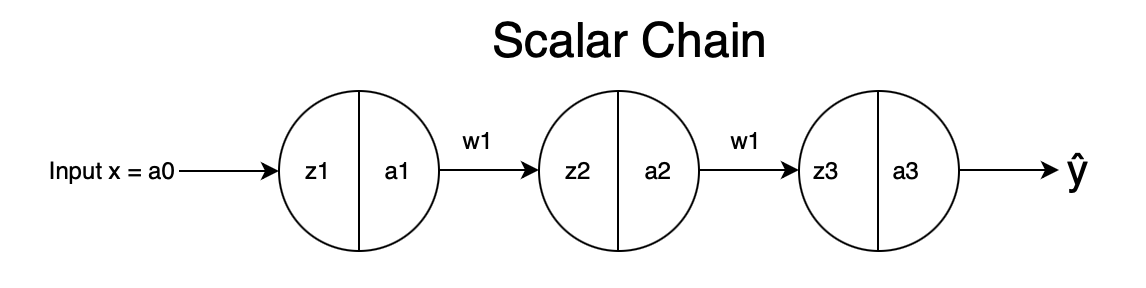
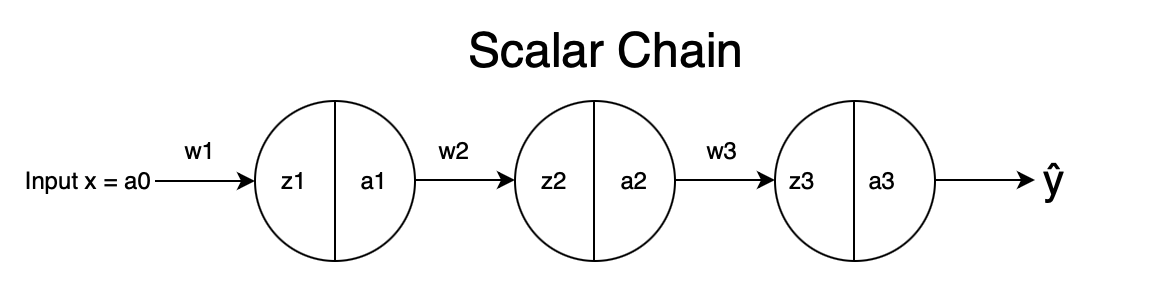
scalar chain1

diff --git a/chapters/chapter1.html b/chapters/chapter1.html
@@ -309,6 +309,15 @@
                         style="max-width: 100%; height: auto; display: block; margin: 0 auto;" 
                         loading="lazy">
             </p>
+            <p>
+                \[x = a0 \quad  z1 = a_0 w_1 \quad z2 = w_2 a_1 \quad z3 = w_3 a_2 \]
+                \[\quad \quad \quad \quad a_1 = g(z_1) \quad a_2 = g(z_2) \quad a_3 = g(z_3) 
+                \]
+                
+
+                
+                
+                </p>
 
         </div>
 
